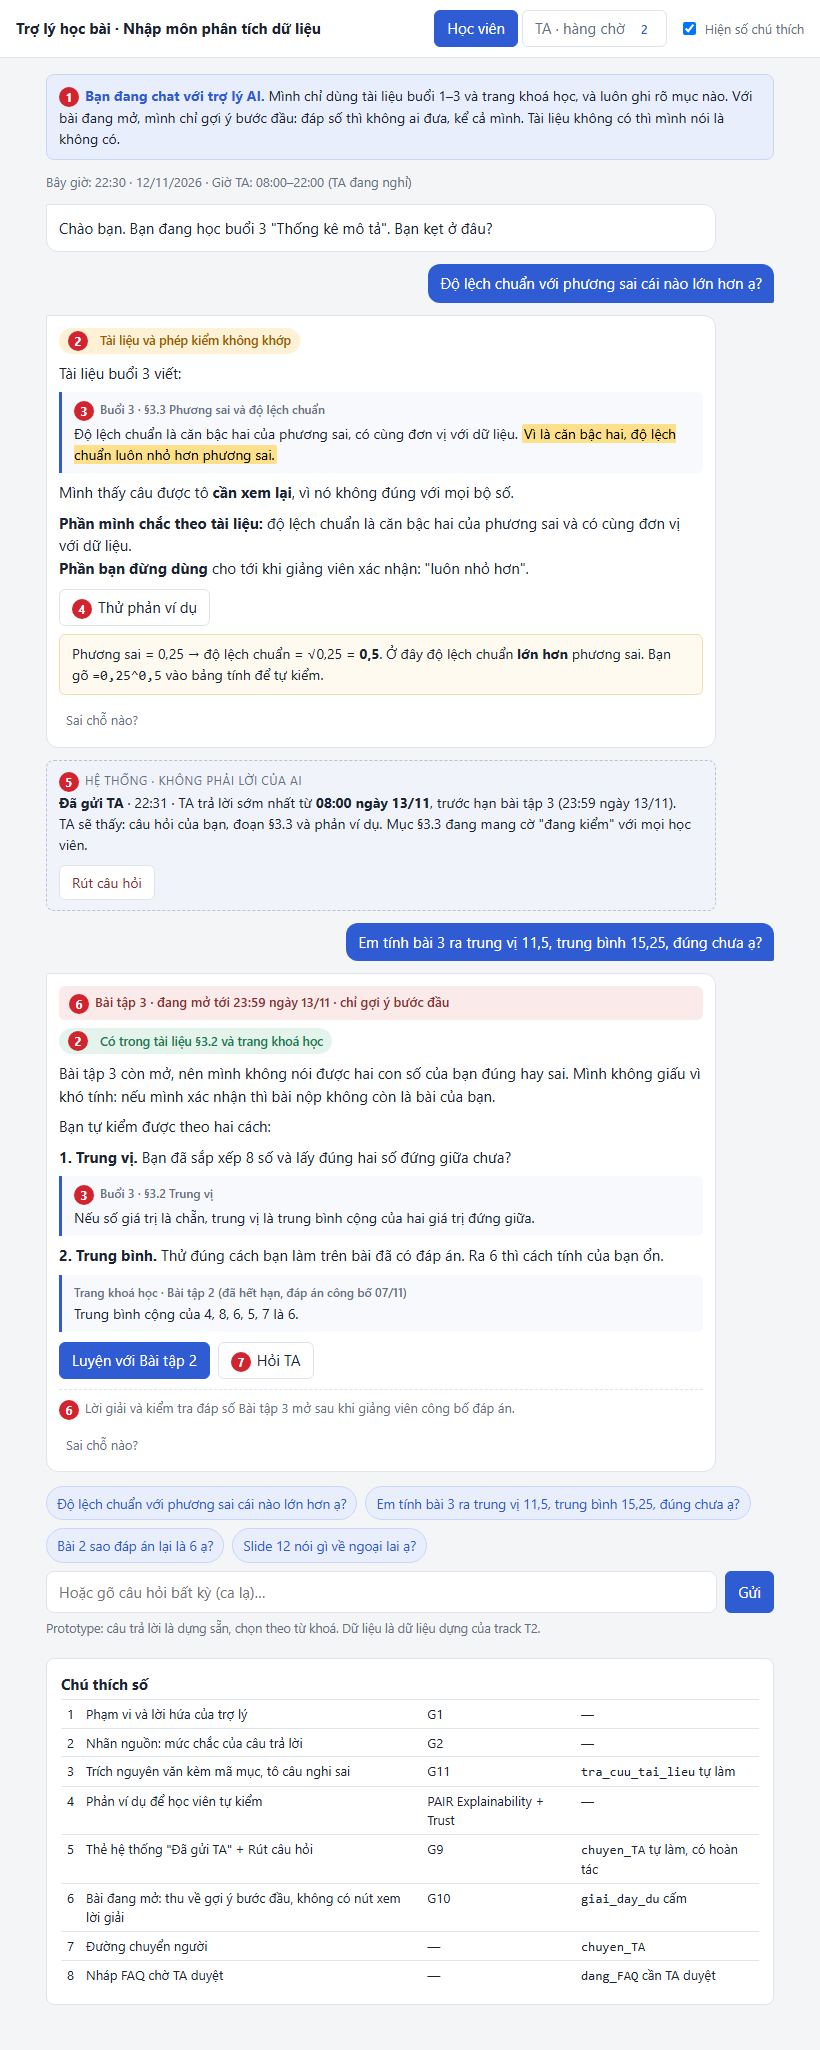
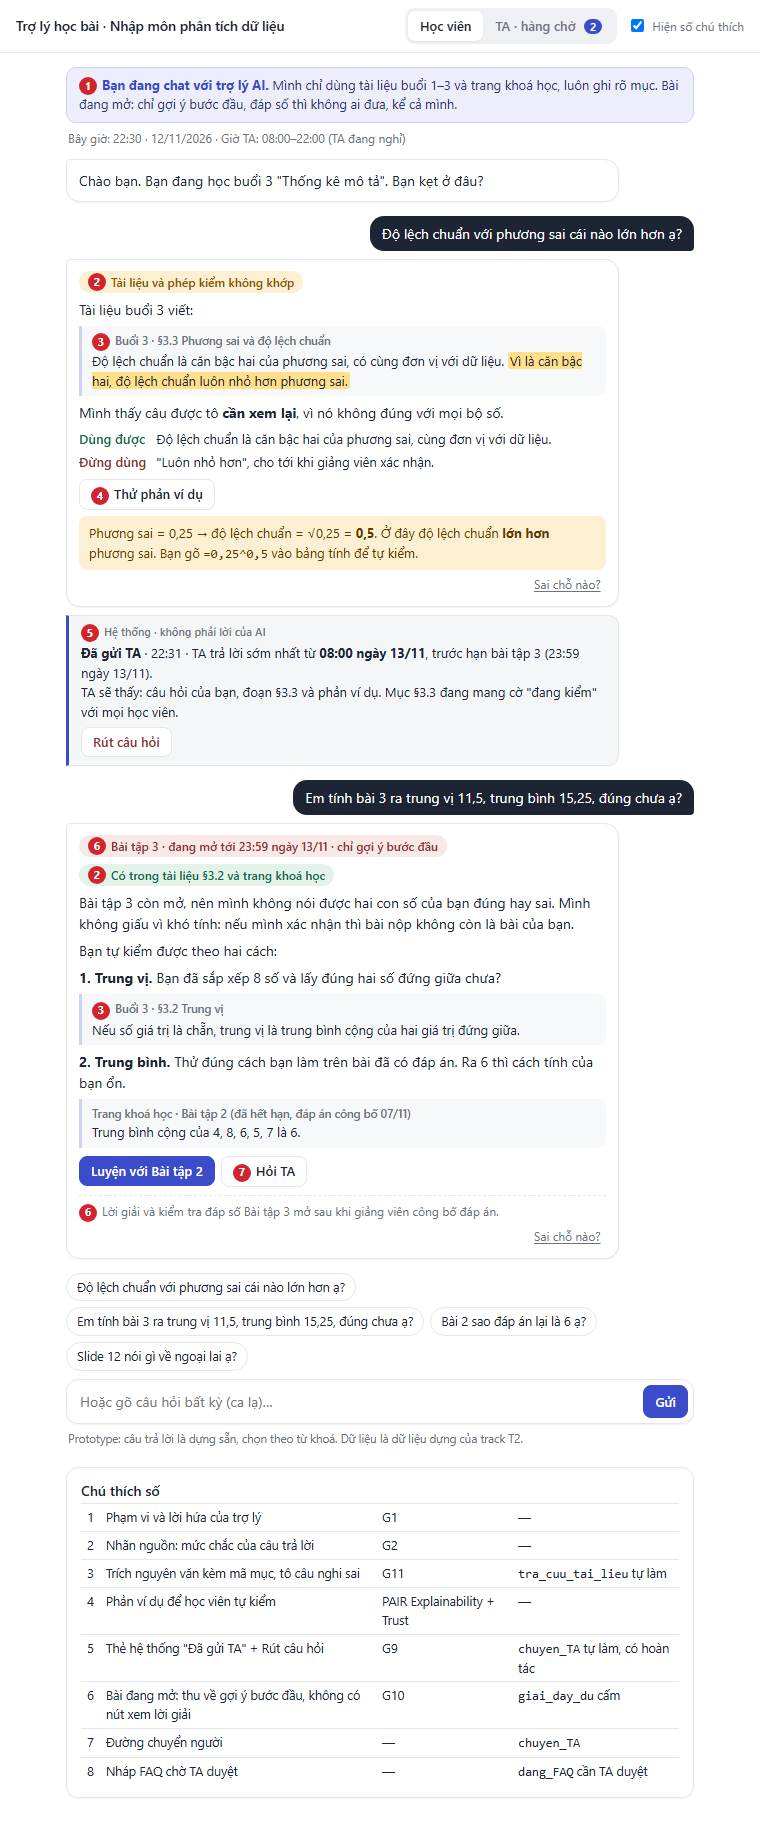
commit4

diff --git a/prototype/index.html b/prototype/index.html
@@ -6,83 +6,98 @@
 <title>Trợ lý học bài — prototype T2</title>
 <style>
   :root {
-    --bg: #f4f5f7; --panel: #ffffff; --ink: #1c2330; --muted: #667085; --line: #dfe3ea;
-    --brand: #2f5bd3; --brand-soft: #e8eefc;
-    --ok: #1d7a4c; --ok-soft: #e4f4ec;
-    --warn: #9a5b00; --warn-soft: #fff1d6; --warn-mark: #ffe08a;
-    --none: #5b6472; --none-soft: #eceef2;
-    --lock: #8a2f2f; --lock-soft: #fbeaea;
-    --sys: #f0f3f9;
+    --bg: #ffffff; --panel: #ffffff; --ink: #1d2433; --muted: #6b7280; --line: #e3e6ec;
+    --brand: #3b4cca; --brand-soft: #eceefb; --brand-line: #cdd2f4;
+    --ok: #17694a; --ok-soft: #e3f3ea;
+    --warn: #8a5300; --warn-soft: #fdefd2; --warn-mark: #ffdf8a;
+    --none: #555e6c; --none-soft: #eef0f3;
+    --lock: #8c3030; --lock-soft: #f9e9e6;
+    --sys: #f5f6f8;
+    --shadow: 0 1px 2px rgba(29, 36, 51, .06);
   }
   * { box-sizing: border-box; }
-  body { margin: 0; background: var(--bg); color: var(--ink); font: 15px/1.5 system-ui, "Segoe UI", Roboto, sans-serif; }
+  body { margin: 0; background: var(--bg); color: var(--ink); font: 14px/1.5 "Segoe UI", system-ui, -apple-system, Roboto, sans-serif; -webkit-font-smoothing: antialiased; }
   button { font: inherit; cursor: pointer; }
-  .top { display: flex; flex-wrap: wrap; align-items: center; gap: 12px; padding: 10px 16px; background: var(--panel); border-bottom: 1px solid var(--line); position: sticky; top: 0; z-index: 5; }
-  .top h1 { font-size: 15px; margin: 0; flex: 1 1 200px; }
-  .tabs { display: flex; gap: 4px; }
-  .tab { border: 1px solid var(--line); background: var(--panel); padding: 6px 12px; border-radius: 6px; color: var(--muted); }
-  .tab.on { background: var(--brand); border-color: var(--brand); color: #fff; }
-  .tab .count { background: #fff; color: var(--brand); border-radius: 10px; padding: 0 6px; margin-left: 6px; font-size: 12px; font-weight: 600; }
-  .toggle { font-size: 13px; color: var(--muted); display: flex; align-items: center; gap: 6px; }
-  .wrap { max-width: 760px; margin: 0 auto; padding: 16px; }
+  button:focus-visible, input:focus-visible, textarea:focus-visible { outline: 2px solid var(--brand); outline-offset: 2px; }
+
+  .top { display: flex; flex-wrap: wrap; align-items: center; gap: 10px; padding: 8px 16px; background: rgba(255, 255, 255, .92); backdrop-filter: blur(6px); border-bottom: 1px solid var(--line); position: sticky; top: 0; z-index: 5; }
+  .top h1 { font-size: 14px; font-weight: 600; margin: 0; flex: 1 1 200px; letter-spacing: -.01em; }
+  .tabs { display: flex; padding: 3px; background: var(--none-soft); border-radius: 9px; }
+  .tab { border: 0; background: transparent; padding: 5px 12px; border-radius: 7px; color: var(--muted); font-size: 13px; font-weight: 500; }
+  .tab.on { background: var(--panel); color: var(--ink); box-shadow: var(--shadow); }
+  .tab .count { background: var(--brand); color: #fff; border-radius: 9px; padding: 0 6px; margin-left: 5px; font-size: 11px; font-weight: 600; }
+  .toggle { font-size: 12px; color: var(--muted); display: flex; align-items: center; gap: 5px; }
+  .wrap { max-width: 660px; margin: 0 auto; padding: 14px 16px 24px; }
   .screen { display: none; }
   .screen.on { display: block; }
 
-  .scope { background: var(--brand-soft); border: 1px solid #c9d6f7; border-radius: 8px; padding: 10px 12px; font-size: 14px; margin-bottom: 12px; }
+  .scope { background: var(--brand-soft); border: 1px solid var(--brand-line); border-radius: 10px; padding: 8px 12px; font-size: 13px; line-height: 1.45; margin-bottom: 6px; color: #2b3371; }
   .scope b { color: var(--brand); }
-  .clock { font-size: 13px; color: var(--muted); margin-bottom: 12px; }
+  .clock { font-size: 12px; color: var(--muted); margin: 0 2px 12px; }
 
-  .chat { display: flex; flex-direction: column; gap: 12px; min-height: 200px; }
-  .msg { max-width: 92%; }
-  .msg.user { align-self: flex-end; background: var(--brand); color: #fff; padding: 8px 12px; border-radius: 12px 12px 2px 12px; }
-  .msg.ai { align-self: flex-start; background: var(--panel); border: 1px solid var(--line); border-radius: 2px 12px 12px 12px; padding: 12px; width: 92%; }
-  .msg.ai p { margin: 0 0 8px; }
+  .chat { display: flex; flex-direction: column; gap: 8px; min-height: 160px; }
+  .msg { max-width: 88%; }
+  .msg.user { align-self: flex-end; background: var(--ink); color: #fff; padding: 7px 12px; border-radius: 14px 14px 4px 14px; margin-top: 6px; }
+  .msg.ai { align-self: flex-start; width: 88%; background: var(--panel); border: 1px solid var(--line); border-radius: 4px 14px 14px 14px; padding: 10px 12px; box-shadow: var(--shadow); }
+  .msg.ai p { margin: 0 0 6px; }
   .msg.ai p:last-child { margin-bottom: 0; }
-  .msg.sys { align-self: flex-start; width: 92%; background: var(--sys); border: 1px dashed #b9c2d3; border-radius: 8px; padding: 10px 12px; font-size: 14px; }
-  .sys .who { font-size: 12px; color: var(--muted); text-transform: uppercase; letter-spacing: .04em; }
+  .msg.sys { align-self: flex-start; width: 88%; background: var(--sys); border: 1px solid var(--line); border-left: 3px solid var(--brand); border-radius: 0 10px 10px 0; padding: 8px 12px; font-size: 13px; }
+  .sys .who { font-size: 11px; color: var(--muted); font-weight: 600; margin-bottom: 1px; }
+  .sys .row { margin-top: 6px; }
 
-  .label { display: inline-flex; align-items: center; gap: 6px; font-size: 12.5px; font-weight: 600; padding: 3px 9px; border-radius: 999px; margin-bottom: 8px; }
+  .label, .state { display: inline-flex; align-items: center; font-size: 12px; font-weight: 600; padding: 2px 9px; border-radius: 999px; margin: 0 6px 6px 0; }
   .label.ok { background: var(--ok-soft); color: var(--ok); }
   .label.warn { background: var(--warn-soft); color: var(--warn); }
   .label.none { background: var(--none-soft); color: var(--none); }
-  .state { display: block; font-size: 13px; font-weight: 600; padding: 6px 10px; border-radius: 6px; margin-bottom: 8px; }
   .state.open { background: var(--lock-soft); color: var(--lock); }
   .state.closed { background: var(--ok-soft); color: var(--ok); }
 
-  blockquote { margin: 8px 0; padding: 8px 12px; border-left: 3px solid var(--brand); background: #f7f9fd; border-radius: 0 6px 6px 0; font-size: 14px; }
-  blockquote .src { display: block; font-size: 12px; color: var(--muted); font-weight: 600; margin-bottom: 2px; }
-  mark { background: var(--warn-mark); padding: 0 2px; border-radius: 2px; }
-  .calc { background: #fffaf0; border: 1px solid #f0dcae; border-radius: 6px; padding: 8px 12px; font-size: 14px; margin: 8px 0; }
+  blockquote { margin: 6px 0; padding: 6px 10px; border-left: 3px solid var(--brand-line); background: #f7f8fa; border-radius: 0 8px 8px 0; font-size: 13px; }
+  blockquote .src { display: block; font-size: 11.5px; color: var(--muted); font-weight: 600; }
+  mark { background: var(--warn-mark); color: inherit; padding: 0 2px; border-radius: 3px; }
+  .calc { background: var(--warn-soft); border-radius: 8px; padding: 7px 10px; font-size: 13px; margin: 6px 0 0; color: #5e3a00; }
+  .split { display: grid; grid-template-columns: auto 1fr; gap: 3px 10px; margin: 6px 0; font-size: 13px; }
+  .split dt { font-weight: 600; white-space: nowrap; }
+  .split dt.y { color: var(--ok); }
+  .split dt.x { color: var(--lock); }
+  .split dd { margin: 0; }
 
-  .row { display: flex; flex-wrap: wrap; gap: 8px; margin-top: 10px; }
-  .btn { border: 1px solid var(--line); background: var(--panel); padding: 6px 12px; border-radius: 6px; color: var(--ink); }
-  .btn:hover { border-color: var(--brand); }
+  .row { display: flex; flex-wrap: wrap; align-items: center; gap: 6px; margin-top: 8px; }
+  .btn { border: 1px solid var(--line); background: var(--panel); padding: 4px 11px; border-radius: 8px; color: var(--ink); font-size: 13px; font-weight: 500; transition: border-color .12s, background .12s; }
+  .btn:hover { border-color: var(--brand); background: var(--brand-soft); }
   .btn.primary { background: var(--brand); border-color: var(--brand); color: #fff; }
-  .btn.ghost { border-color: transparent; color: var(--muted); font-size: 13px; padding: 4px 6px; }
+  .btn.primary:hover { background: #3140b0; }
+  .btn.ghost { border-color: transparent; background: transparent; color: var(--muted); font-size: 12px; font-weight: 400; padding: 2px 4px; text-decoration: underline; text-underline-offset: 2px; }
   .btn.danger { color: var(--lock); }
   .btn[disabled] { opacity: .45; cursor: not-allowed; }
-  .locked { margin-top: 10px; font-size: 13px; color: var(--muted); border-top: 1px dashed var(--line); padding-top: 8px; }
+  .row:has(> .ghost) { justify-content: flex-end; margin-top: 2px; }
+  .locked { margin-top: 8px; font-size: 12px; color: var(--muted); border-top: 1px dashed var(--line); padding-top: 6px; }
 
-  .chips { display: flex; flex-wrap: wrap; gap: 8px; margin: 14px 0 8px; }
-  .chip { border: 1px solid #c9d6f7; background: var(--brand-soft); color: var(--brand); padding: 6px 10px; border-radius: 999px; font-size: 13.5px; text-align: left; }
-  .composer { display: flex; gap: 8px; }
-  .composer input { flex: 1; min-width: 0; padding: 9px 12px; border: 1px solid var(--line); border-radius: 8px; font: inherit; }
-  .hint { font-size: 12.5px; color: var(--muted); margin-top: 6px; }
+  .chips { display: flex; flex-wrap: wrap; gap: 6px; margin: 14px 0 8px; }
+  .chip { border: 1px solid var(--line); background: var(--panel); color: var(--ink); padding: 4px 10px; border-radius: 999px; font-size: 12.5px; text-align: left; }
+  .chip:hover { border-color: var(--brand); color: var(--brand); }
+  .composer { display: flex; gap: 6px; background: var(--panel); border: 1px solid var(--line); border-radius: 12px; padding: 5px; box-shadow: var(--shadow); }
+  .composer input { flex: 1; min-width: 0; padding: 6px 8px; border: 0; background: transparent; font: inherit; }
+  .composer input:focus-visible { outline: none; }
+  .composer:focus-within { border-color: var(--brand); }
+  .hint { font-size: 11.5px; color: var(--muted); margin: 6px 2px 0; }
 
-  .card { background: var(--panel); border: 1px solid var(--line); border-radius: 8px; padding: 14px; margin-bottom: 12px; }
-  .card h3 { margin: 0 0 4px; font-size: 15px; }
-  .card .meta { font-size: 12.5px; color: var(--muted); margin-bottom: 8px; }
-  .note { font-size: 13px; padding: 6px 10px; border-radius: 6px; background: var(--warn-soft); color: var(--warn); margin: 8px 0; }
+  .card { background: var(--panel); border: 1px solid var(--line); border-radius: 12px; padding: 12px 14px; margin-bottom: 10px; box-shadow: var(--shadow); }
+  .card h3 { margin: 0 0 2px; font-size: 14px; font-weight: 600; }
+  .card p { margin: 6px 0; }
+  .card .meta { font-size: 12px; color: var(--muted); margin-bottom: 6px; }
+  .note { font-size: 12.5px; padding: 6px 10px; border-radius: 8px; background: var(--warn-soft); color: var(--warn); margin: 8px 0; }
   .note.done { background: var(--ok-soft); color: var(--ok); }
   .empty { color: var(--muted); text-align: center; padding: 32px 0; }
-  textarea { width: 100%; min-height: 90px; font: inherit; padding: 8px; border: 1px solid var(--line); border-radius: 6px; }
+  textarea { width: 100%; min-height: 84px; font: inherit; padding: 8px; border: 1px solid var(--line); border-radius: 8px; }
 
-  .n { display: none; align-items: center; justify-content: center; width: 20px; height: 20px; border-radius: 50%; background: #d1242f; color: #fff; font-size: 12px; font-weight: 700; margin-right: 6px; vertical-align: middle; flex: none; }
+  .n { display: none; align-items: center; justify-content: center; width: 18px; height: 18px; border-radius: 50%; background: #d1242f; color: #fff; font-size: 11px; font-weight: 700; margin-right: 5px; vertical-align: middle; flex: none; }
   body.nums .n { display: inline-flex; }
-  .legend { display: none; font-size: 13px; }
+  .legend { display: none; font-size: 12.5px; }
   body.nums .legend { display: block; }
   .legend table { border-collapse: collapse; width: 100%; }
   .legend td { border-top: 1px solid var(--line); padding: 4px 6px; vertical-align: top; }
+  @media (max-width: 520px) { .msg, .msg.ai, .msg.sys { max-width: 100%; width: 100%; } }
 </style>
 </head>
 <body>
@@ -100,7 +115,7 @@
 
   <!-- MÀN HÌNH A — HỌC VIÊN -->
   <section class="screen on" id="student">
-    <div class="scope"><span class="n">1</span><b>Bạn đang chat với trợ lý AI.</b> Mình chỉ dùng tài liệu buổi 1–3 và trang khoá học, và luôn ghi rõ mục nào. Với bài đang mở, mình chỉ gợi ý bước đầu: đáp số thì không ai đưa, kể cả mình. Tài liệu không có thì mình nói là không có.</div>
+    <div class="scope"><span class="n">1</span><b>Bạn đang chat với trợ lý AI.</b> Mình chỉ dùng tài liệu buổi 1–3 và trang khoá học, luôn ghi rõ mục. Bài đang mở: chỉ gợi ý bước đầu, đáp số thì không ai đưa, kể cả mình.</div>
     <div class="clock">Bây giờ: 22:30 · 12/11/2026 · Giờ TA: 08:00–22:00 (TA đang nghỉ)</div>
 
     <div class="chat" id="chat"></div>
@@ -178,7 +193,8 @@
       quote('Buổi 3 · §3.3 Phương sai và độ lệch chuẩn',
         'Độ lệch chuẩn là căn bậc hai của phương sai, có cùng đơn vị với dữ liệu. <mark>Vì là căn bậc hai, độ lệch chuẩn luôn nhỏ hơn phương sai.</mark>', 3) +
       '<p>Mình thấy câu được tô <b>cần xem lại</b>, vì nó không đúng với mọi bộ số.</p>' +
-      '<p><b>Phần mình chắc theo tài liệu:</b> độ lệch chuẩn là căn bậc hai của phương sai và có cùng đơn vị với dữ liệu.<br><b>Phần bạn đừng dùng</b> cho tới khi giảng viên xác nhận: "luôn nhỏ hơn".</p>' +
+      '<dl class="split"><dt class="y">Dùng được</dt><dd>Độ lệch chuẩn là căn bậc hai của phương sai, cùng đơn vị với dữ liệu.</dd>' +
+      '<dt class="x">Đừng dùng</dt><dd>"Luôn nhỏ hơn", cho tới khi giảng viên xác nhận.</dd></dl>' +
       '<div class="row"><button class="btn" data-act="counter">' + n(4) + 'Thử phản ví dụ</button></div>' +
       '<div class="calc" hidden>Phương sai = 0,25 → độ lệch chuẩn = √0,25 = <b>0,5</b>. Ở đây độ lệch chuẩn <b>lớn hơn</b> phương sai. Bạn gõ <code>=0,25^0,5</code> vào bảng tính để tự kiểm.</div>' +
       feedback);
@@ -420,9 +436,39 @@
       document.getElementById(a.id).innerHTML = askCard(a.id); sync();
     } else if (act === 'feedback') {
       b.closest('.row').outerHTML =
-        '<div class="row"><button class="btn" data-act="fb">Trích sai mục</button><button class="btn" data-act="fb">Không đúng câu em hỏi</button><button class="btn" data-act="fb">Em nghĩ AI sai</button></div>';
+        '<div class="row"><button class="btn" data-act="fb" data-kind="section">Trích sai mục</button><button class="btn" data-act="fb" data-kind="question">Không đúng câu em hỏi</button><button class="btn" data-act="fb" data-kind="wrong">Em nghĩ AI sai</button></div>';
     } else if (act === 'fb') {
-      b.closest('.row').outerHTML = '<div class="locked">Đã ghi nhận: "' + esc(b.textContent) + '". Góp ý này đi kèm câu trả lời khi TA xem.</div>';
+      var kind = b.dataset.kind;
+      b.closest('.row').outerHTML = '<div class="locked">Bạn báo: "' + esc(b.textContent) + '".</div>';
+      fbReply(kind);
+    }
+  }
+
+  // Học viên sửa AI: mỗi loại góp ý có một đường đi tiếp, không chỉ "đã ghi nhận"
+  function fbReply(kind) {
+    if (kind === 'section') {
+      add('ai',
+        label('none', 'Bạn chọn lại mục') +
+        '<p>Xin lỗi, mình trích chưa đúng mục bạn cần. Buổi 3 có các mục dưới đây, bạn chọn mục đúng nhé.</p>' +
+        '<div class="row">' +
+        '<button class="btn" data-say="Trung bình cộng là gì ạ?">§3.1 Trung bình cộng</button>' +
+        '<button class="btn" data-say="Trung vị là gì ạ?">§3.2 Trung vị</button>' +
+        '<button class="btn" data-say="Độ lệch chuẩn là gì ạ?">§3.3 Độ lệch chuẩn</button>' +
+        '<button class="btn" data-say="Giá trị ngoại lai là gì ạ?">§3.4 Ngoại lai</button>' +
+        '<button class="btn" data-act="askTA" data-q="Học viên báo trợ lý trích sai mục, không mục nào ở buổi 3 khớp">' + n(7) + 'Không có mục nào, hỏi TA</button></div>');
+    } else if (kind === 'question') {
+      add('ai',
+        label('none', 'Chưa đủ rõ để tra tài liệu') +
+        '<p>Mình hiểu chưa đúng câu hỏi của bạn. Bạn nói lại bằng một câu ngắn giúp mình: bạn đang kẹt ở khái niệm nào, hay ở bài tập nào?</p>');
+      document.getElementById('input').focus();
+    } else {
+      add('ai',
+        label('none', 'Cần người kiểm') +
+        '<p>Có thể mình sai. Mình không tự sửa câu trả lời khi chưa có căn cứ mới, nên mình gửi câu trả lời này kèm góp ý của bạn cho TA. Cho tới khi TA trả lời, bạn coi câu trả lời trên là chưa được xác nhận.</p>');
+      var id = 'ask' + (++seq);
+      S.asks.push({ id: id, text: 'Học viên cho rằng câu trả lời của trợ lý sai, cần TA xem lại', state: 'sent' });
+      add('sys', askCard(id)).id = id;
+      sync();
     }
   }
   function find(id) { return S.asks.filter(function (a) { return a.id === id; })[0]; }

diff --git a/spec.md b/spec.md
@@ -124,7 +124,7 @@
 - **G2 (làm rõ hệ thống làm tốt đến đâu)** → nhãn nguồn trên mỗi câu trả lời, ba trạng thái: "Có trong tài liệu §…" / "Tài liệu và phép kiểm không khớp" / "Tài liệu không có". K1 dùng trạng thái thứ hai.
 - **G11 (giải thích vì sao)** → khung trích nguyên văn kèm mã mục ở K1 và K2; ở K2 có thêm câu giải thích vì sao không xác nhận.
 - **G10 (thu hẹp phạm vi khi nghi ngờ)** → K2: bài đang mở thì thu về "gợi ý bước đầu"; K1: tách "phần mình chắc" khỏi "phần đừng dùng".
-- **G9 (sửa dễ dàng)** → nút "Rút câu hỏi" trên thẻ "Đã gửi TA" ở K1, và nút "Sai chỗ nào?" dưới mỗi câu trả lời.
+- **G9 (sửa dễ dàng)** → nút "Rút câu hỏi" trên thẻ "Đã gửi TA" ở K1, và nút "Sai chỗ nào?" dưới mỗi câu trả lời. Mỗi loại góp ý có một đường đi tiếp chứ không chỉ "đã ghi nhận": "Trích sai mục" → AI đưa các mục §3.1–§3.4 để chọn lại; "Không đúng câu em hỏi" → AI hỏi lại một câu; "Em nghĩ AI sai" → AI không tự sửa khi chưa có căn cứ, gửi câu trả lời kèm góp ý cho TA (có nút rút).
 - **PAIR · Explainability + Trust** → phản ví dụ 0,25 → 0,5 ở K1: học viên tự kiểm, không phải tin AI hay tin tài liệu.
 
 ### Lỗi sửa câu chữ không cứu được
@@ -192,6 +192,7 @@ A, B, C chính là ba mức gốc của đề (cấm / tự làm / cần ngườ
 - **Phần mock:** toàn bộ câu trả lời của AI là dựng sẵn, chọn theo từ khoá trong tin nhắn; dữ liệu khoá học là dữ liệu dựng của track; mọi mốc giờ (22:30 phía học viên, 08:05 phía TA) là cố định; không có backend, tải lại trang là mất trạng thái. Cờ "đang kiểm" ở §3.3 chỉ thấy được qua một học viên; prototype không có màn hình của học viên thứ hai.
 - **Hai màn hình (hai tab):** (A) khung chat của học viên; (B) hàng chờ của TA. Hai tab dùng chung trạng thái: học viên rút câu hỏi thì hàng chờ TA mất thẻ đó; TA xử lý cờ thì học viên nhận thông báo.
 - **Đường bấm ca khó:** bấm tin mồi K1 → "Thử phản ví dụ" → "Rút câu hỏi" → "Gửi lại" → bấm tin mồi K2 → "Luyện với Bài tập 2" → "Hỏi TA" → sang tab TA → nút "Đăng cho cả lớp" bị khoá cho tới khi xử lý cờ §3.3 → "Tài liệu sai, sửa nguồn" → "Đăng cho cả lớp".
+- **Đường học viên sửa AI:** "Sai chỗ nào?" dưới mỗi câu trả lời → chọn một trong ba loại góp ý → AI phản hồi theo loại (chọn lại mục / hỏi lại / gửi TA kiểm).
 - **Ca lạ:** ô nhập tự do. Ngoài K1, K2, prototype có sẵn đường cho K3, K4, K5, K6, K7, K8, K10, K11, K12 (bảng ở §7). Tin không khớp đường nào thì ra "Tài liệu không có" kèm nút "Hỏi TA"; prototype không đoán.
 - **Ảnh đánh số** (chụp với ô "Hiện số chú thích" bật; mở `index.html?shot=student` hoặc `?shot=ta` để dựng lại đúng trạng thái trong ảnh):
 
@@ -205,7 +206,7 @@ A, B, C chính là ba mức gốc của đề (cấm / tự làm / cần ngườ
 
 | Số | Chỗ trên màn hình | Thể hiện gì | Nguyên tắc | Mức tự chủ |
 |---|---|---|---|---|
-| ① | Khung xanh trên đầu khung chat (A): "Bạn đang chat với trợ lý AI. Mình chỉ dùng tài liệu buổi 1–3… đáp số thì không ai đưa, kể cả mình" | Phạm vi và lời hứa; cho biết đang nói chuyện với AI | G1 | — |
+| ① | Khung xanh trên đầu khung chat (A): "Bạn đang chat với trợ lý AI. Mình chỉ dùng tài liệu buổi 1–3 và trang khoá học, luôn ghi rõ mục. Bài đang mở: chỉ gợi ý bước đầu, đáp số thì không ai đưa, kể cả mình." | Phạm vi và lời hứa; cho biết đang nói chuyện với AI | G1 | — |
 | ② | Nhãn nguồn trên mỗi câu trả lời (A), ba trạng thái | Độ chắc | G2 | — |
 | ③ | Khung trích §3.3 có câu được tô nền (A) | Bằng chứng AI dựa vào | G11 | `tra_cuu_tai_lieu` tự làm |
 | ④ | Nút "Thử phản ví dụ" (A) | Học viên tự kiểm | PAIR Explainability + Trust | — |
